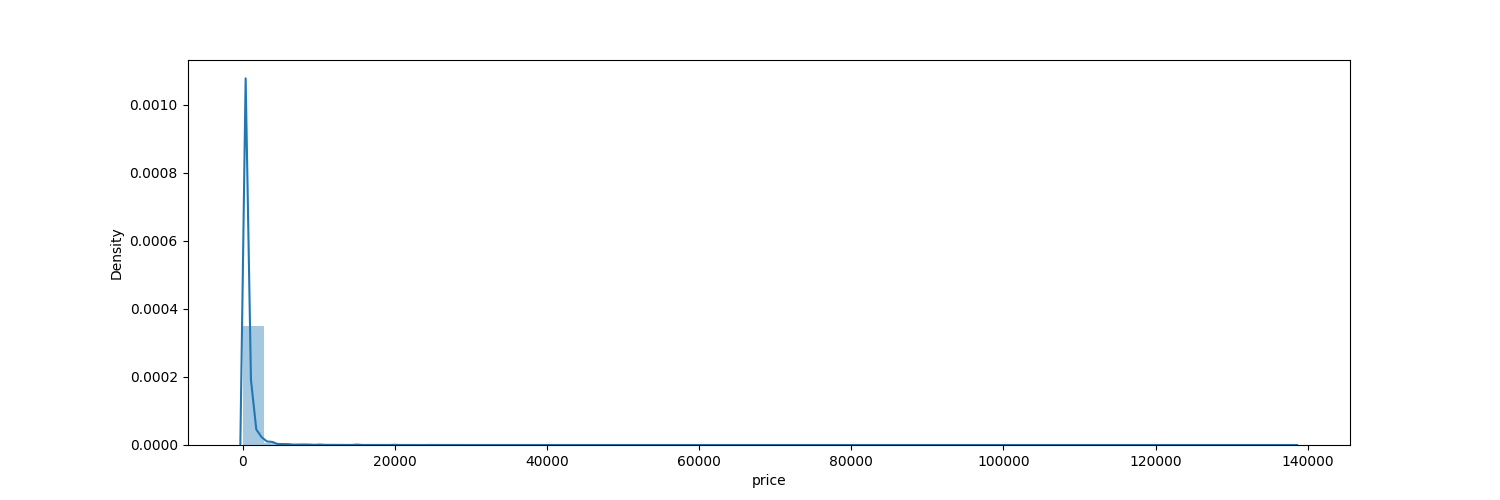
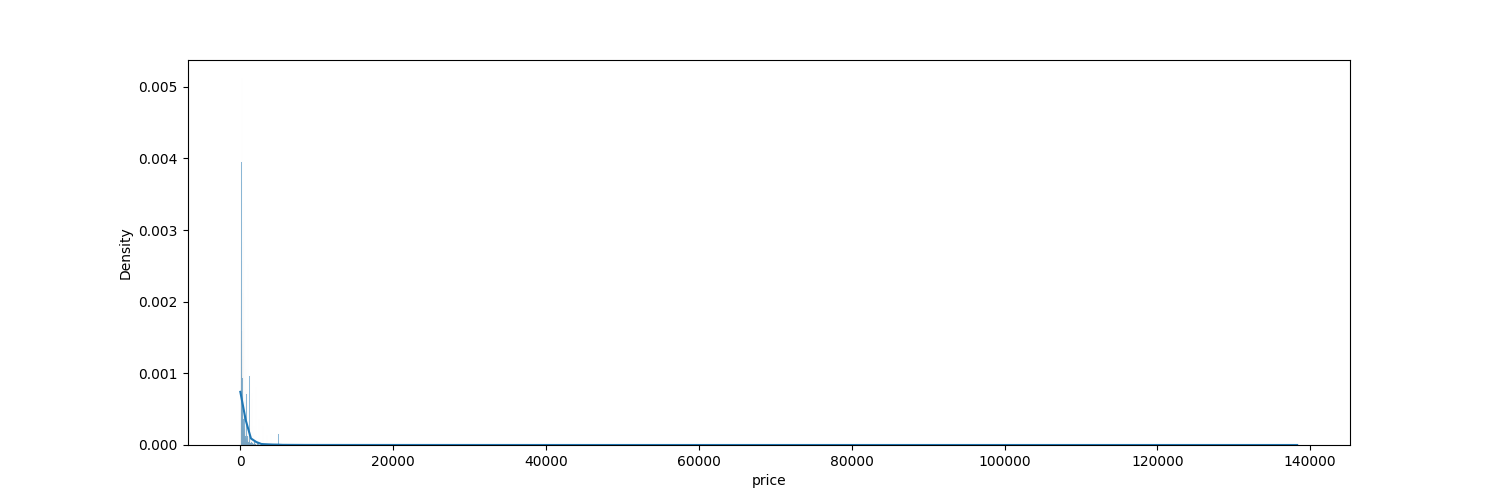
Outliers das colunas de Price e Extra People.

diff --git a/test.py b/test.py
@@ -130,6 +130,7 @@ heatmap_corr(data_base_airbnb)
 
 # Outliers das colunas
 
+# Price
 box_diagram(data_base_airbnb["price"], "box_diagram_price")
 histogram(data_base_airbnb["price"], "histogram_price")
 
@@ -137,4 +138,19 @@ data_base_airbnb, excludes_lines = exclude_outliers(data_base_airbnb, "price")
 print("{} linhas removidas".format(excludes_lines))
 
 histogram(data_base_airbnb["price"], "histogram_price_exclude_outliers")
+print(data_base_airbnb.shape)
+
+# Extra People
+
+box_diagram(data_base_airbnb["extra_people"], "box_diagram_extra_people")
+histogram(data_base_airbnb["extra_people"], "histogram_extra_people")
+
+data_base_airbnb, excludes_lines = exclude_outliers(
+    data_base_airbnb, "extra_people"
+)
+print("{} linhas removidas".format(excludes_lines))
+
+histogram(
+    data_base_airbnb["extra_people"], "histogram_extra_people_exclude_outliers"
+)
 print(data_base_airbnb.shape)

diff --git a/functions.py b/functions.py
@@ -40,7 +40,7 @@ def box_diagram(column, file_name):
 
 def histogram(column, file_name):
     plt.figure(figsize=(15, 5))
-    sns.distplot(column, hist=True)
+    sns.histplot(column, kde=True, stat="density")
     plt.savefig(f"imgs/{file_name}.png")
 
 
